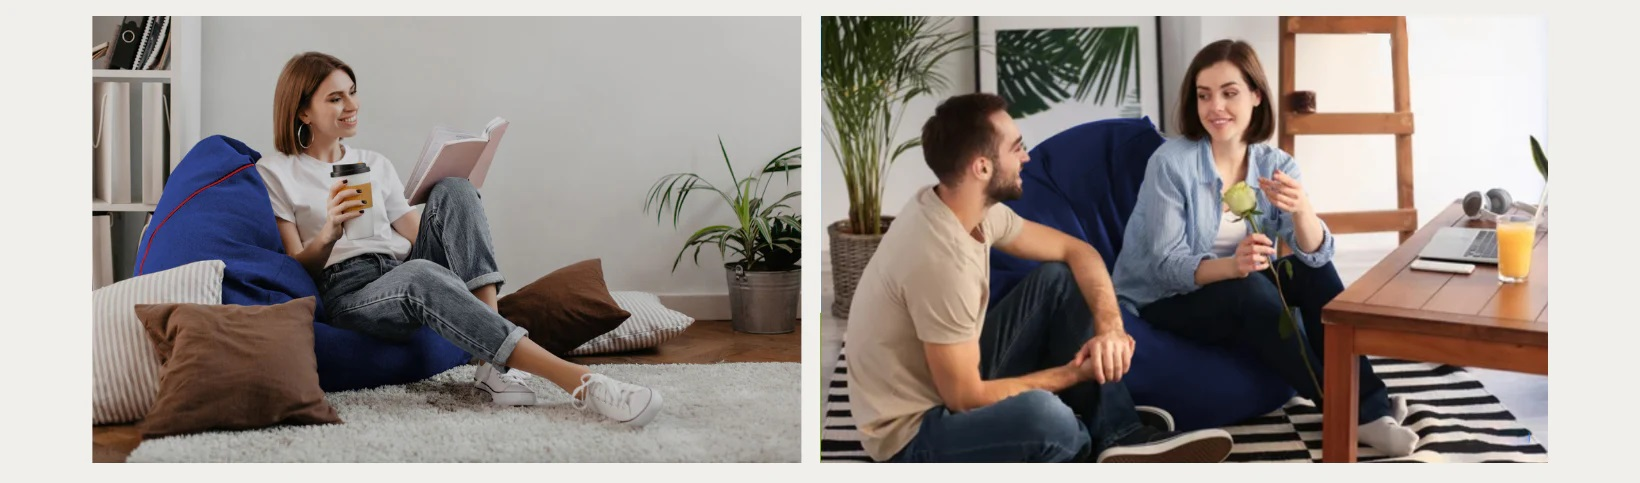
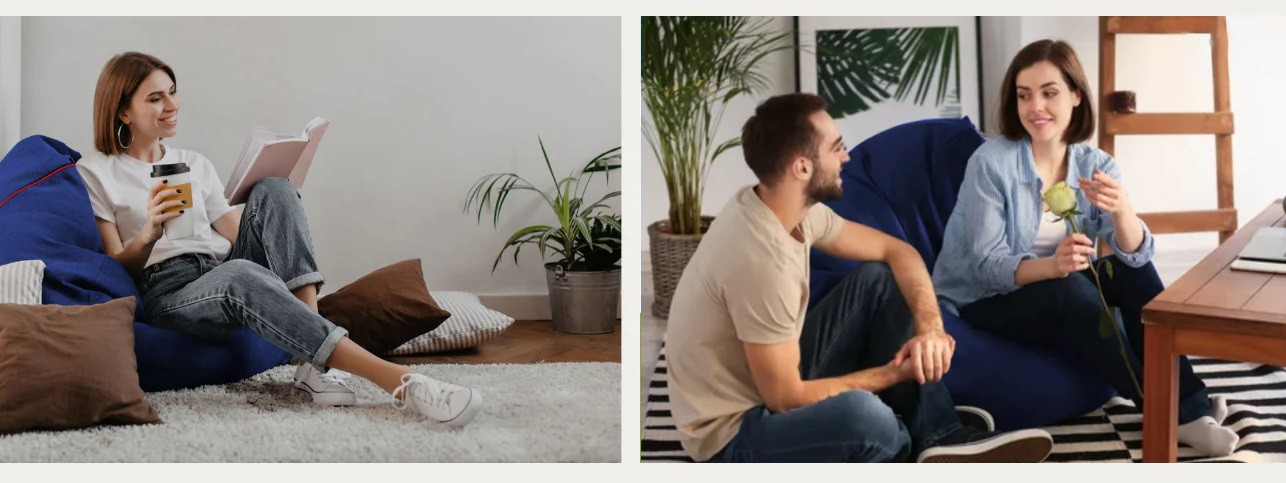
Updated code with new components

diff --git a/src/components/Home.jsx b/src/components/Home.jsx
@@ -2,23 +2,46 @@ import React from 'react'
 import firstcar from '../assets/happynew.jpg'
 import secondcar  from '../assets/landscapehandcrafted.jpg'
 import thirdcar from '../assets/yellow_multiple.jpg'
+import './Home.css'
+import mindLogo from '../assets/mind.jpg'
+import handcraftedLogo from '../assets/handcrafted.jpg'
+import artisanal from '../assets/artisanal.jpg'
+import sustainable from '../assets/sustainable.jpg'
+import firstcard from '../assets/Card/classic1.jpg'
+import secondcard from '../assets/Card/football2.jpg'
+import thirdcard from '../assets/Card/comboclas3.jpg'
+import fourtcard from '../assets/Card/chair_bean_.jpg'
+import fifthcard from '../assets/Card/footballc.jpg'
+import sixthcard from '../assets/Card/poufs.jpg'
+import trendingCard from '../assets/binbag.jpg'
+import trendingCard1 from '../assets/binbag2.jpg'
+import { Input } from '@mui/material'
 
 const Home = () => {
   return (
     <>
-    <h1>Header </h1>
+    <div className="container-fluid" style={{marginTop:'40px'}}>
+  <div className="row justify-content-center">
+    <div className="col-10"  > 
     <div id="carouselExample" className="carousel slide">
   <div className="carousel-inner">
   <div className="carousel-item active">
-            <img src={firstcar}  className="d-block w-100" alt="Slide 1" />
+            <img src={firstcar}  className="d-block w-100" alt="Slide 1" height={450} />
+            <div className="carousel-caption d-none d-md-block">
+              <h6>UNMATCHED COMFORT</h6>
+              <h1 style={{marginBottom:'140px'}}>Unbelievably good looks</h1>
+            </div>
      </div>
     <div className="carousel-item">
-             <img src={secondcar}  className="d-block w-100" alt="..."/>
+             <img src={secondcar}  className="d-block w-100" alt="..." height={400}/>
     </div>
     <div className="carousel-item">
-      <img src={thirdcar}  className="d-block w-100" alt="..." />
+      <img src={thirdcar}  className="d-block w-100" alt="..." height={400} />
     </div>
   </div>
+  </div>
+  </div>
+</div>
   <button className="carousel-control-prev" type="button" data-bs-target="#carouselExample" data-bs-slide="prev">
     <span className="carousel-control-prev-icon" aria-hidden="true"></span>
     <span className="visually-hidden">Previous</span>
@@ -26,7 +49,118 @@ const Home = () => {
   <button className="carousel-control-next" type="button" data-bs-target="#carouselExample" data-bs-slide="next">
     <span className="carousel-control-next-icon" aria-hidden="true"></span>
     <span className="visually-hidden">Next</span>
-  </button>
+    </button>
+
+
+ <div className='textContainer'>
+<p>Urbanloom products are carefully hand crafted to perfection from pure cotton fabric made in traditional looms. Now buy bean bags, ottomans & cushions  in host of vibrant colors and designs and spice up your living room, bed room or study. Our products are skin-friendly, eco-friendly , breathable and fun!</p>
+    </div>
+ 
+
+<div className='circleLogo'>
+  <img className="imgcircleLogo" src={mindLogo} alt="" />
+  <img className="imgcircleLogo" src={sustainable} alt="" />
+  <img className="imgcircleLogo" src={handcraftedLogo} alt="" />
+  <img className="imgcircleLogo" src={artisanal} alt="" />
+</div>
+
+<div className='homeCardmain'>
+  <div>
+  <h3>Cotton Bean Bags
+  <span
+    style={{ position: "absolute",bottom: "-10px",left: "50%", transform: "translateX(-50%)", width: "60px", height: "2px", backgroundColor: "skyblue", display: "block", }}/>
+  </h3>
+  </div>
+  <div className="card-container">
+    <div className="imgdiv">
+        <img src={firstcard} alt="" className="cardImg" />
+        <div className="overlay"></div>  {/* Dark overlay */}
+        <div className="cardText">Classic Teardrops</div>
+    </div>
+    <div className="imgdiv">
+        <img src={secondcard} alt="" className="cardImg" />
+        <div className="overlay"></div>
+        <div className="cardText">Footballs</div>
+    </div>
+    <div className="imgdiv">
+        <img src={thirdcard} alt="" className="cardImg" />
+        <div className="overlay"></div>
+        <div className="cardText">Classic Combos</div>
+    </div>
+    <div className="imgdiv">
+        <img src={fourtcard} alt="" className="cardImg" />
+        <div className="overlay"></div>
+        <div className="cardText">Loungers</div>
+    </div>
+    <div className="imgdiv">
+        <img src={fifthcard} alt="" className="cardImg" />
+        <div className="overlay"></div>
+        <div className="cardText">Football Combos</div>
+    </div>
+    <div className="imgdiv">
+        <img src={sixthcard} alt="" className="cardImg" />
+        <div className="overlay"></div>
+        <div className="cardText">Poufs</div>
+    </div>
+</div>
+
+
+
+</div>
+
+<div className='homeCardmain'>
+  <div>
+  <h3>Trending Products
+  <span
+    style={{position: "absolute",bottom: "-10px",left: "50%", transform: "translateX(-50%)", width: "60px", height: "2px", backgroundColor: "skyblue", display: "block", }}/>
+  </h3>
+  </div>
+
+<div className='trendingProducts'>
+    <div className="trendingCard">
+      <img src={trendingCard1} alt='trendingCard' className='imgtrending'/>
+      <p className="paraTrending">Auburn cotton handloom bean bag Cover without beans<br/>
+         <b className="oldPrice">Rs. 2,999.00</b> Rs. 2,199.00</p>
+    </div>
+    <div className="trendingCard">
+    <img src={trendingCard1} alt='trendingCard'  className='imgtrending'/>
+    <p className="paraTrending">Acacia cotton handloom bean bag Cover without beans<br/>
+    <b className="oldPrice">Rs. 2,999.00</b> Rs. 2,199.00</p>
+    </div>
+    <div className="trendingCard">
+    <img src={trendingCard1} alt='trendingCard' className='imgtrending' />
+    <p className="paraTrending">Kiera XXXL cotton handloom bean bag lounger without beans (Red)<br/>
+    <b className="oldPrice">Rs. 2,999.00</b> Rs. 2,299.00</p>
+    </div>
+    <div className="trendingCard">
+    <img src={trendingCard1} alt='trendingCard' className='imgtrending' />
+    <p className="paraTrending">Cotton Handloom Moroccan Pouf cover , Blue & Red<br/>
+    <b className="oldPrice">Rs. 2,999.00</b> Rs. 999.00</p>
+    </div>
+    <div className="trendingCard">
+    <img src={trendingCard1} alt='trendingCard' className='imgtrending' />
+    <p className="paraTrending">Scarlet cotton handloom bean bag cover & Footstool cover<br/>
+    <b className="oldPrice">Rs. 2,999.00</b> Rs. 2,999.00</p>
+    </div>
+    <div className="trendingCard">
+    <img src={trendingCard1} alt='trendingCard' className='imgtrending' />
+    <p className="paraTrending">Bumblebee cotton handloom Football bean bag Cover & Footstool cover<br/>
+    <b className="oldPrice">Rs. 2,999.00</b> Rs. 2,999.00</p>
+    </div>
+</div>
+
+<div className='subscribesec'>
+   <h2>Subscribe to our newsletter</h2>
+   <h4>Promotions, new products and sales. Directly to your inbox.
+   <span
+    style={{position: "absolute",bottom: "-10px",left: "50%", transform: "translateX(-50%)", width: "60px", height: "2px", backgroundColor: "skyblue", display: "block", }}/>
+   </h4>
+
+    <Input className='subscribeemail' type='text' placeholder='Your email' /><button type='submit'>SUBSCRIBE</button>
+</div>
+
+
+</div>
 </div>
     
     

diff --git a/src/components/Home.css b/src/components/Home.css
@@ -1,0 +1,150 @@
+/* .maintext{
+    border: 1px solid black;
+    display: flex;
+    justify-content: center;
+    align-items: center;
+    height:100px;
+    margin-bottom:20px;
+} */
+.textContainer{
+    width: 1060px;
+    padding: 10px;
+    line-height: 1.8; 
+    font-size: 16px;
+    color: #333;
+    /* border: 1px solid black; */
+    margin-top: 30px;
+    margin-left: 230px;
+    font-size: 20px;
+    margin-bottom:40px;
+}
+.circleLogo{
+    display: flex;
+    justify-content: center;
+    align-items: center ;
+}
+.imgcircleLogo{
+    width:15%;
+    margin-bottom: 30px;
+}
+
+/* img{
+    width:200px;
+} */
+.homeCardmain {
+    text-align: center;
+    padding: 20px;
+  }
+  
+  h3 {
+    position: relative;
+    display: inline-block;
+    font-size: 1.5rem;
+    /* border: 1px solid black; */
+    /* margin-bottom: 40px; */
+  }
+  .card-container {
+    display: grid;
+    grid-template-columns: repeat(3, 1fr);
+    gap: 30px;
+    justify-content: center;
+    align-items: center;
+    max-width: 1000px;
+    margin-top: 30px;
+    margin-left: 250px;
+}
+
+.imgdiv {
+    position: relative;
+    width: 100%;
+}
+
+.cardImg {
+    width: 100%;
+    height: 290px;
+    object-fit: cover;
+  
+}
+
+.overlay {
+    position: absolute;
+    top: 0;
+    left: 0;
+    width: 100%;
+    height: 100%;
+    background: rgba(0, 0, 0, 0.5); /* Semi-transparent black */
+    transition: background 0.3s ease-in-out;
+}
+
+.cardText {
+    position: absolute;
+    bottom: 80px; /* Adjust text position */
+    left: 50%;
+    transform: translateX(-50%);
+    color: white;
+    font-size: 40px;
+    font-weight: 400;
+    padding: 8px;
+    text-align: center;
+    z-index: 2; /* Ensures text stays above the overlay */
+}
+
+.imgdiv:hover .overlay {
+    background: rgba(0, 0, 0, 0.7); 
+    
+} 
+
+.trendingProducts {
+    display: grid;
+    grid-template-columns: repeat(3, 1fr);
+    gap: 30px;
+    justify-content: center;
+    align-items: start; /* Aligns all cards from the top */
+    margin-top: 30px;
+    max-width: 950px;
+    margin-left: auto;
+    margin-right: auto;
+}
+
+.trendingCard {
+    position: relative;
+    width: 100%;
+    overflow: hidden;
+    display: flex;
+    flex-direction: column;
+    /* align-items: center;  */
+    text-align: center; 
+}
+
+.imgtrending {
+    width: 100%;
+    height: 300px;
+    object-fit: cover;
+}
+
+.trendingCard:hover .imgtrending {
+    opacity: 0.9;
+}
+
+.paraTrending {
+    line-height: 1.5;
+    font-size: 18px;
+    margin-top: 10px;
+    min-height: 70px; 
+    display: flex;
+    flex-direction: column;
+    justify-content: center;
+}
+.oldPrice {
+    text-decoration: line-through;
+    color: black; /* Optional: Lighten the old price */
+  }
+
+  .subscribesec{
+    background-color: rgb(239, 202, 202);
+    height: 350PX;
+    margin-top: 20px;
+  }
+  h2{
+    margin-top: 20px;
+  }

diff --git a/src/components/AboutPage.jsx b/src/components/AboutPage.jsx
@@ -10,26 +10,23 @@ const AboutUs = () => {
 <span
     style={{ position: "absolute",bottom: "-20px",left: "50%", transform: "translateX(-50%)", width: "60px", height: "2px", backgroundColor: "skyblue", display: "block", }}/>
 </h1>
-<br /><br />
-<div style={{ display: "flex",justifyContent: "center", alignItems: "center", backgroundColor: "#f9f9f9"}}>
-  <div style={{width: "1000px",padding: "20px",lineHeight: "1.8",fontSize: "16px",color: "#333",textAlign: "justify" }}>
+<br />
+<div className="mainContainer">
+  <div className="aboutmain">
     Today, growing concern over climate change is altering the way we historically thought about lifestyle and leisure.
     With awareness of the negative impact of synthetic fabrics increasing, consumers are searching for ways to reduce
     their environmental footprint and are eager to adopt natural fibers. However, there are still barriers to entry,
     including availability and variety, which leaves consumers with limited choices.
-    <br />
     <br />
     Started in 2018, Urbanloom is a homegrown brand that brings high-quality, naturally sourced home furnishing products
     for the Indian consumer. With its foundation in sustainability, Urbanloom makes conscious consumerism stylish and
     functional for everyone. As an inclusive brand, we use both traditional and modern techniques to create unique
     products that are built to last.
     <br />
-    <br />
     We have an in-house production unit where we design eco-friendly, skin-friendly, comfortable, stylish, colorful,
     and luxurious ranges of cotton, jute, and denim bean bags, poufs, ottomans, and other home furnishing products.
     Urbanloom is emerging as a prominent eco-conscious brand, which is all set to revamp the home and lifestyle space
     with sustainable alternatives.
-    <br />
     <br />
     We supply bean bags to tech start-ups, urban cafes, and spas. For bulk and corporate inquiries, drop an email to{" "}
     <a href="mailto:support@urbanloom.in" style={{ color: "#007BFF" }}>
@@ -38,7 +35,8 @@ const AboutUs = () => {
   </div>
 </div>
 <br />
-
+<br />
+<br />
 <Footer />
     </>
   );

diff --git a/src/components/AboutPage.css b/src/components/AboutPage.css
@@ -7,3 +7,18 @@
     font-size: 3rem; 
     background-color: #f0f0f0; 
   }
+    .mainContainer{
+      display: flex;
+      justify-content: center;
+      align-items: center;
+      background-color: #f9f9f9;
+    }
+
+  .aboutmain {
+    width: 1000px;
+    padding: 20px;
+    line-height: 1.8; /* No px needed */
+    font-size: 16px;
+    color: #333;
+    text-align: justify;
+}
